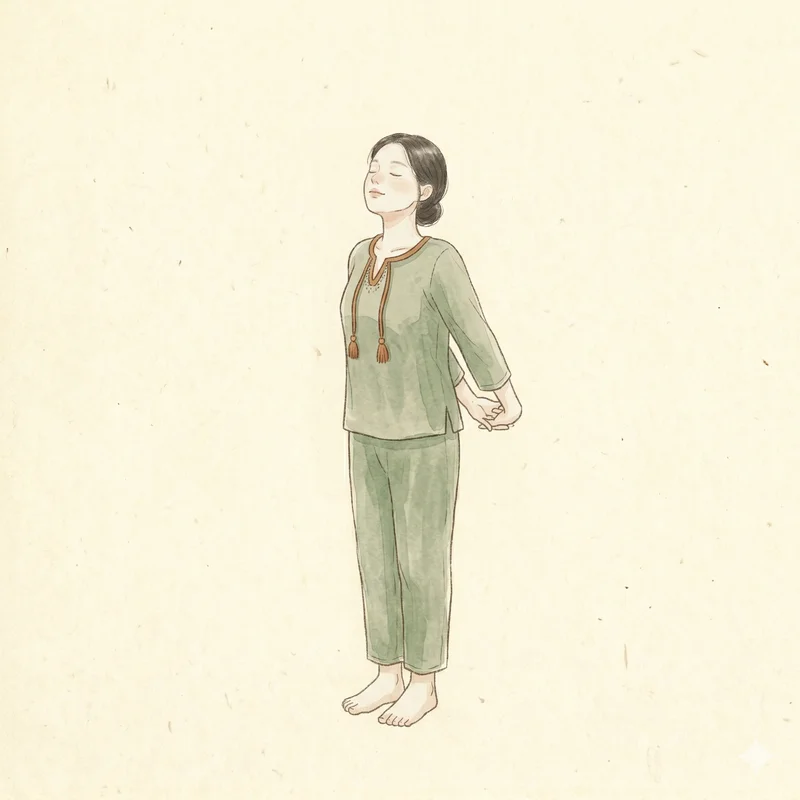
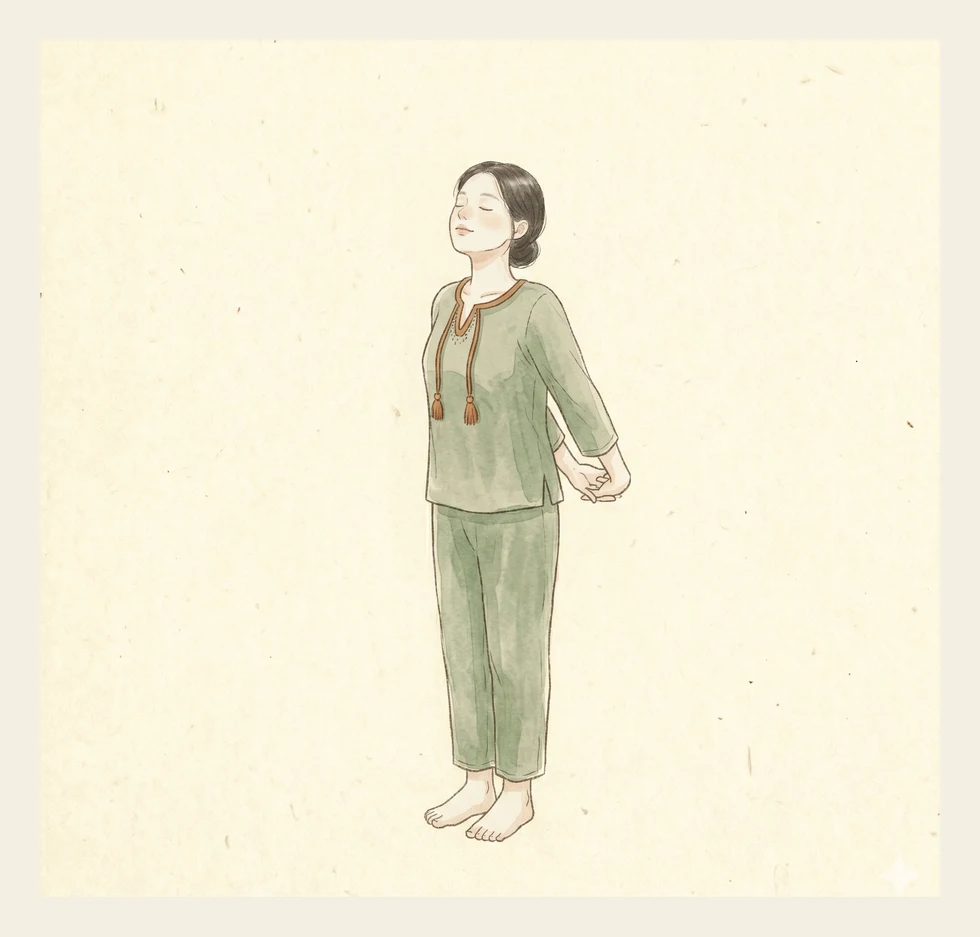
Tighter illustration crop, warm aura glow on figures

Changed region(s): [[0.4062, 0.1562, 0.6562, 0.9062], [0.5625, 0.3125, 0.5938, 0.375]]

diff --git a/src/components/Figure.css b/src/components/Figure.css
@@ -4,8 +4,9 @@
   user-select: none;
   -webkit-user-select: none;
   pointer-events: none;
-  mask-image: radial-gradient(ellipse at center, black 35%, transparent 80%);
-  -webkit-mask-image: radial-gradient(ellipse at center, black 35%, transparent 80%);
+  mask-image: radial-gradient(ellipse at center, black 45%, transparent 88%);
+  -webkit-mask-image: radial-gradient(ellipse at center, black 45%, transparent 88%);
+  filter: drop-shadow(0 0 32px rgba(196, 107, 74, 0.12));
 }
 
 .figure-fallback {
